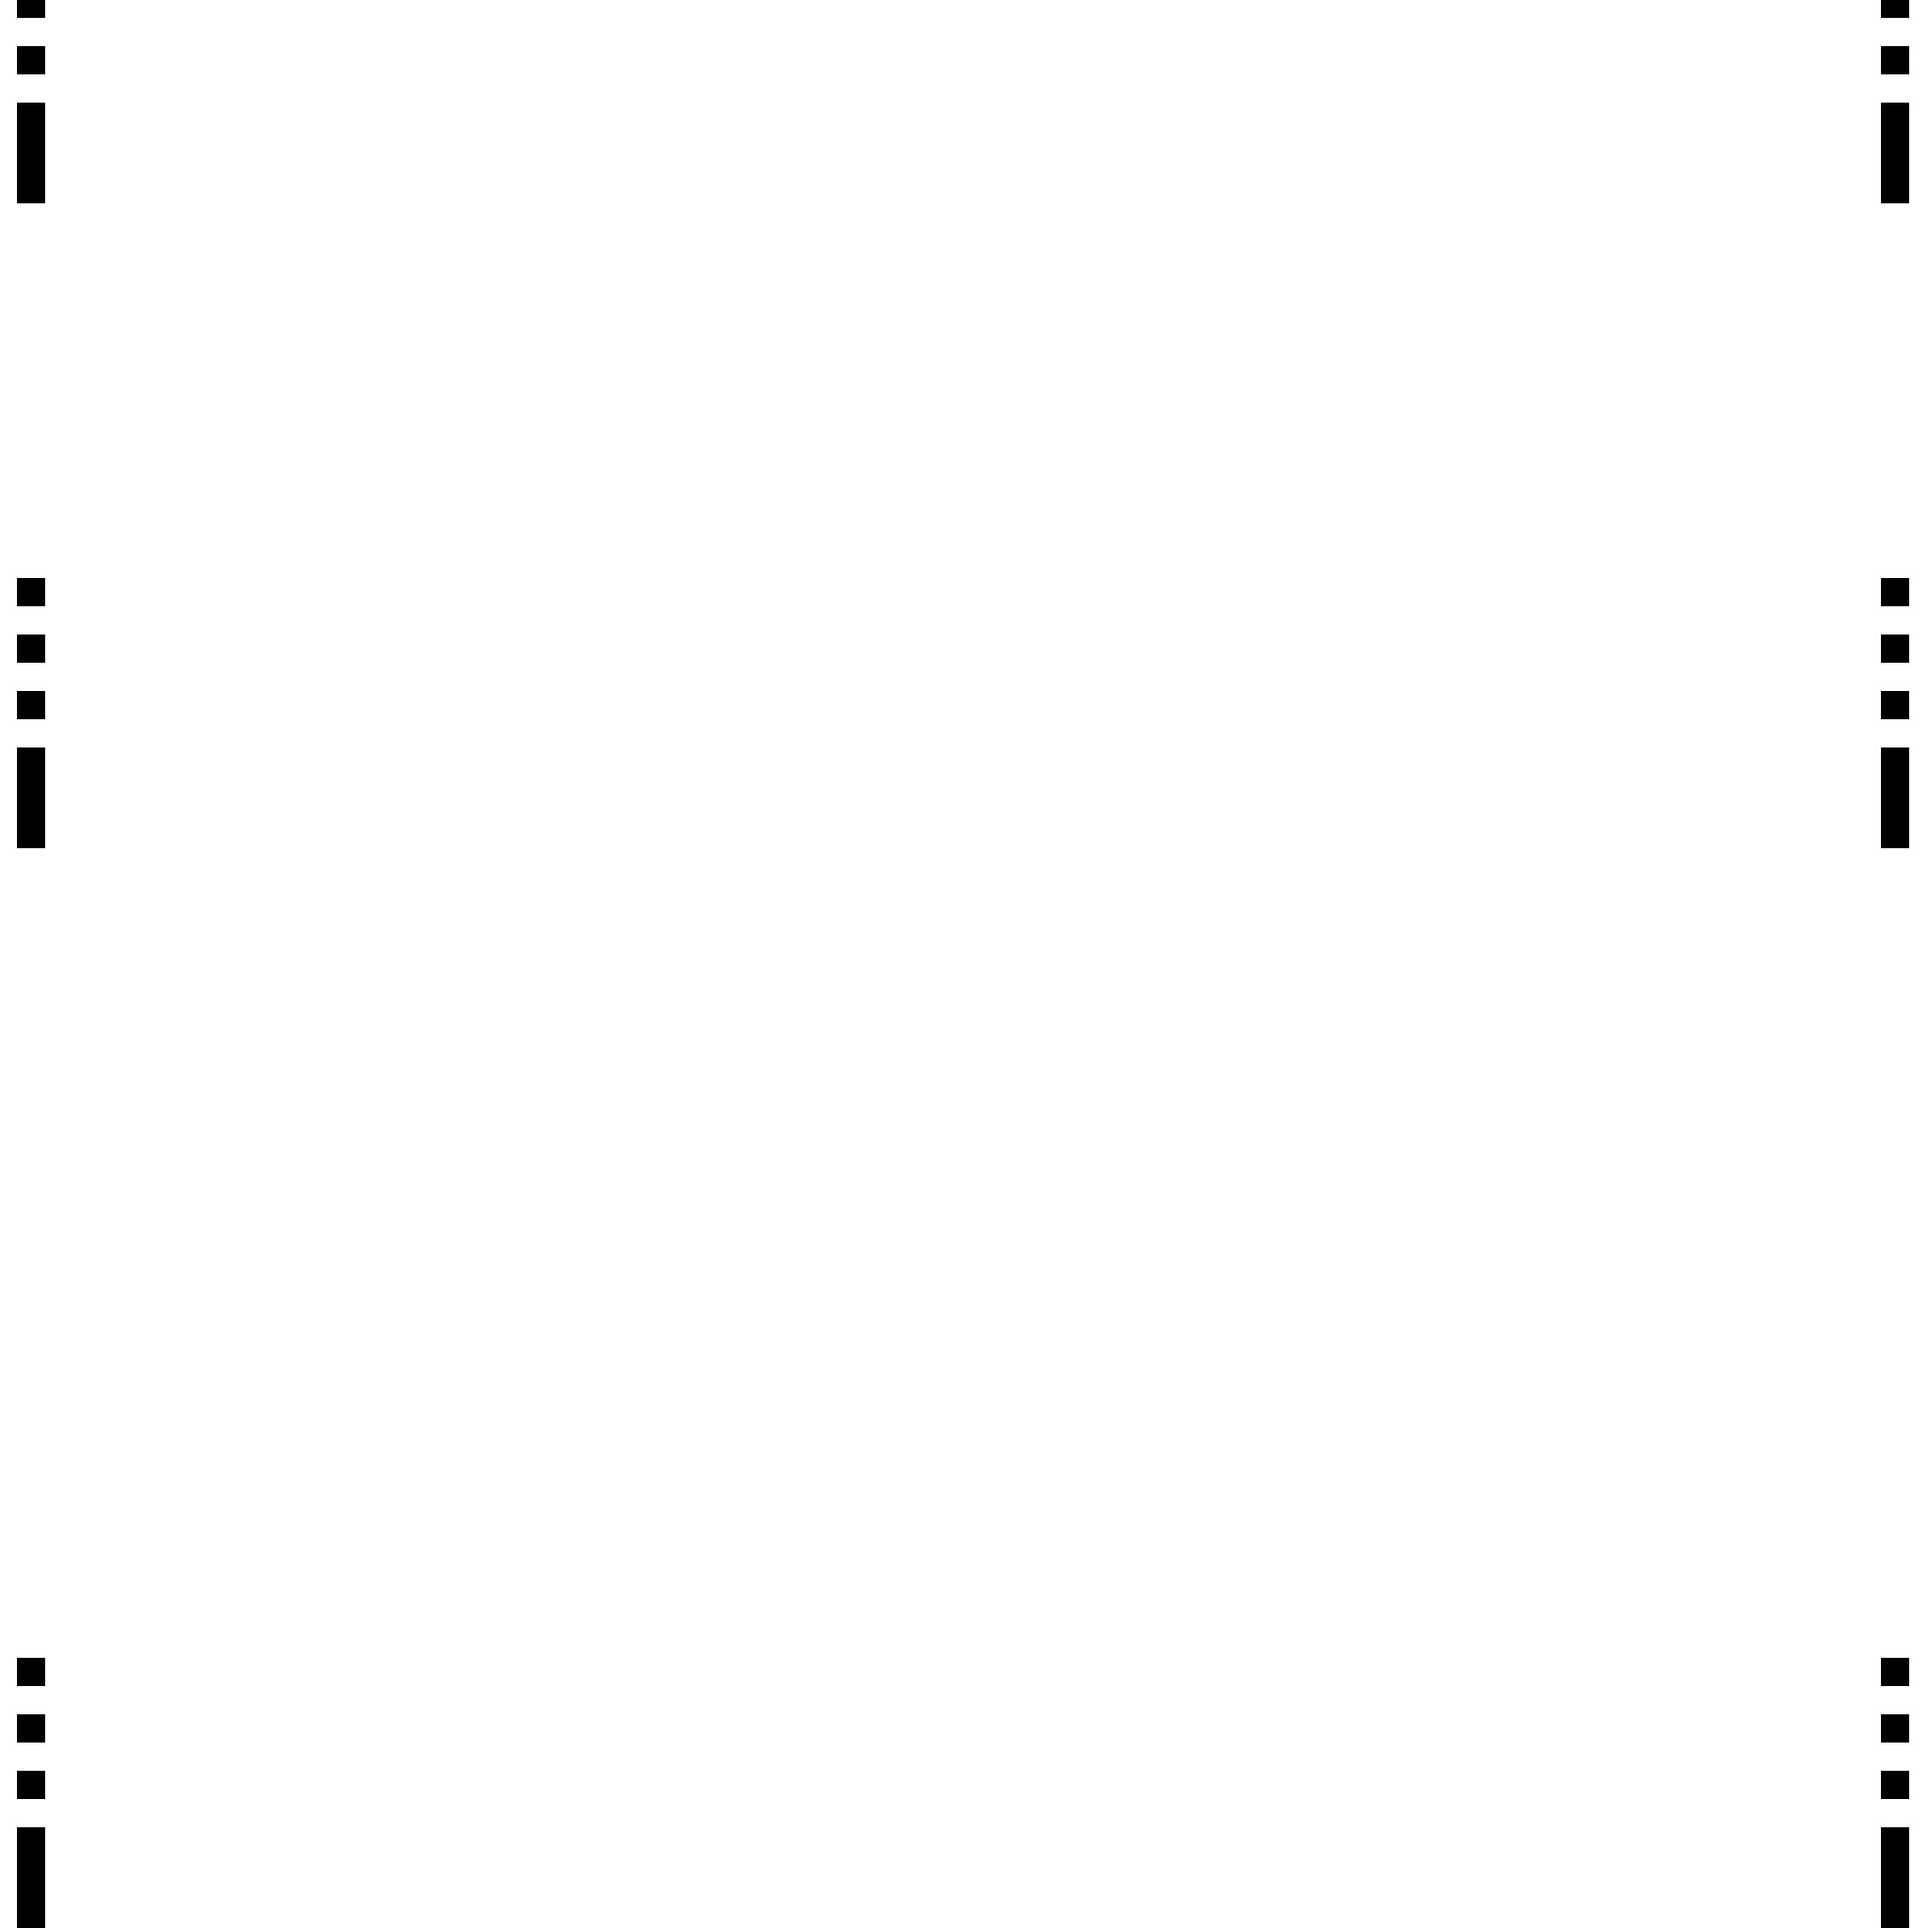
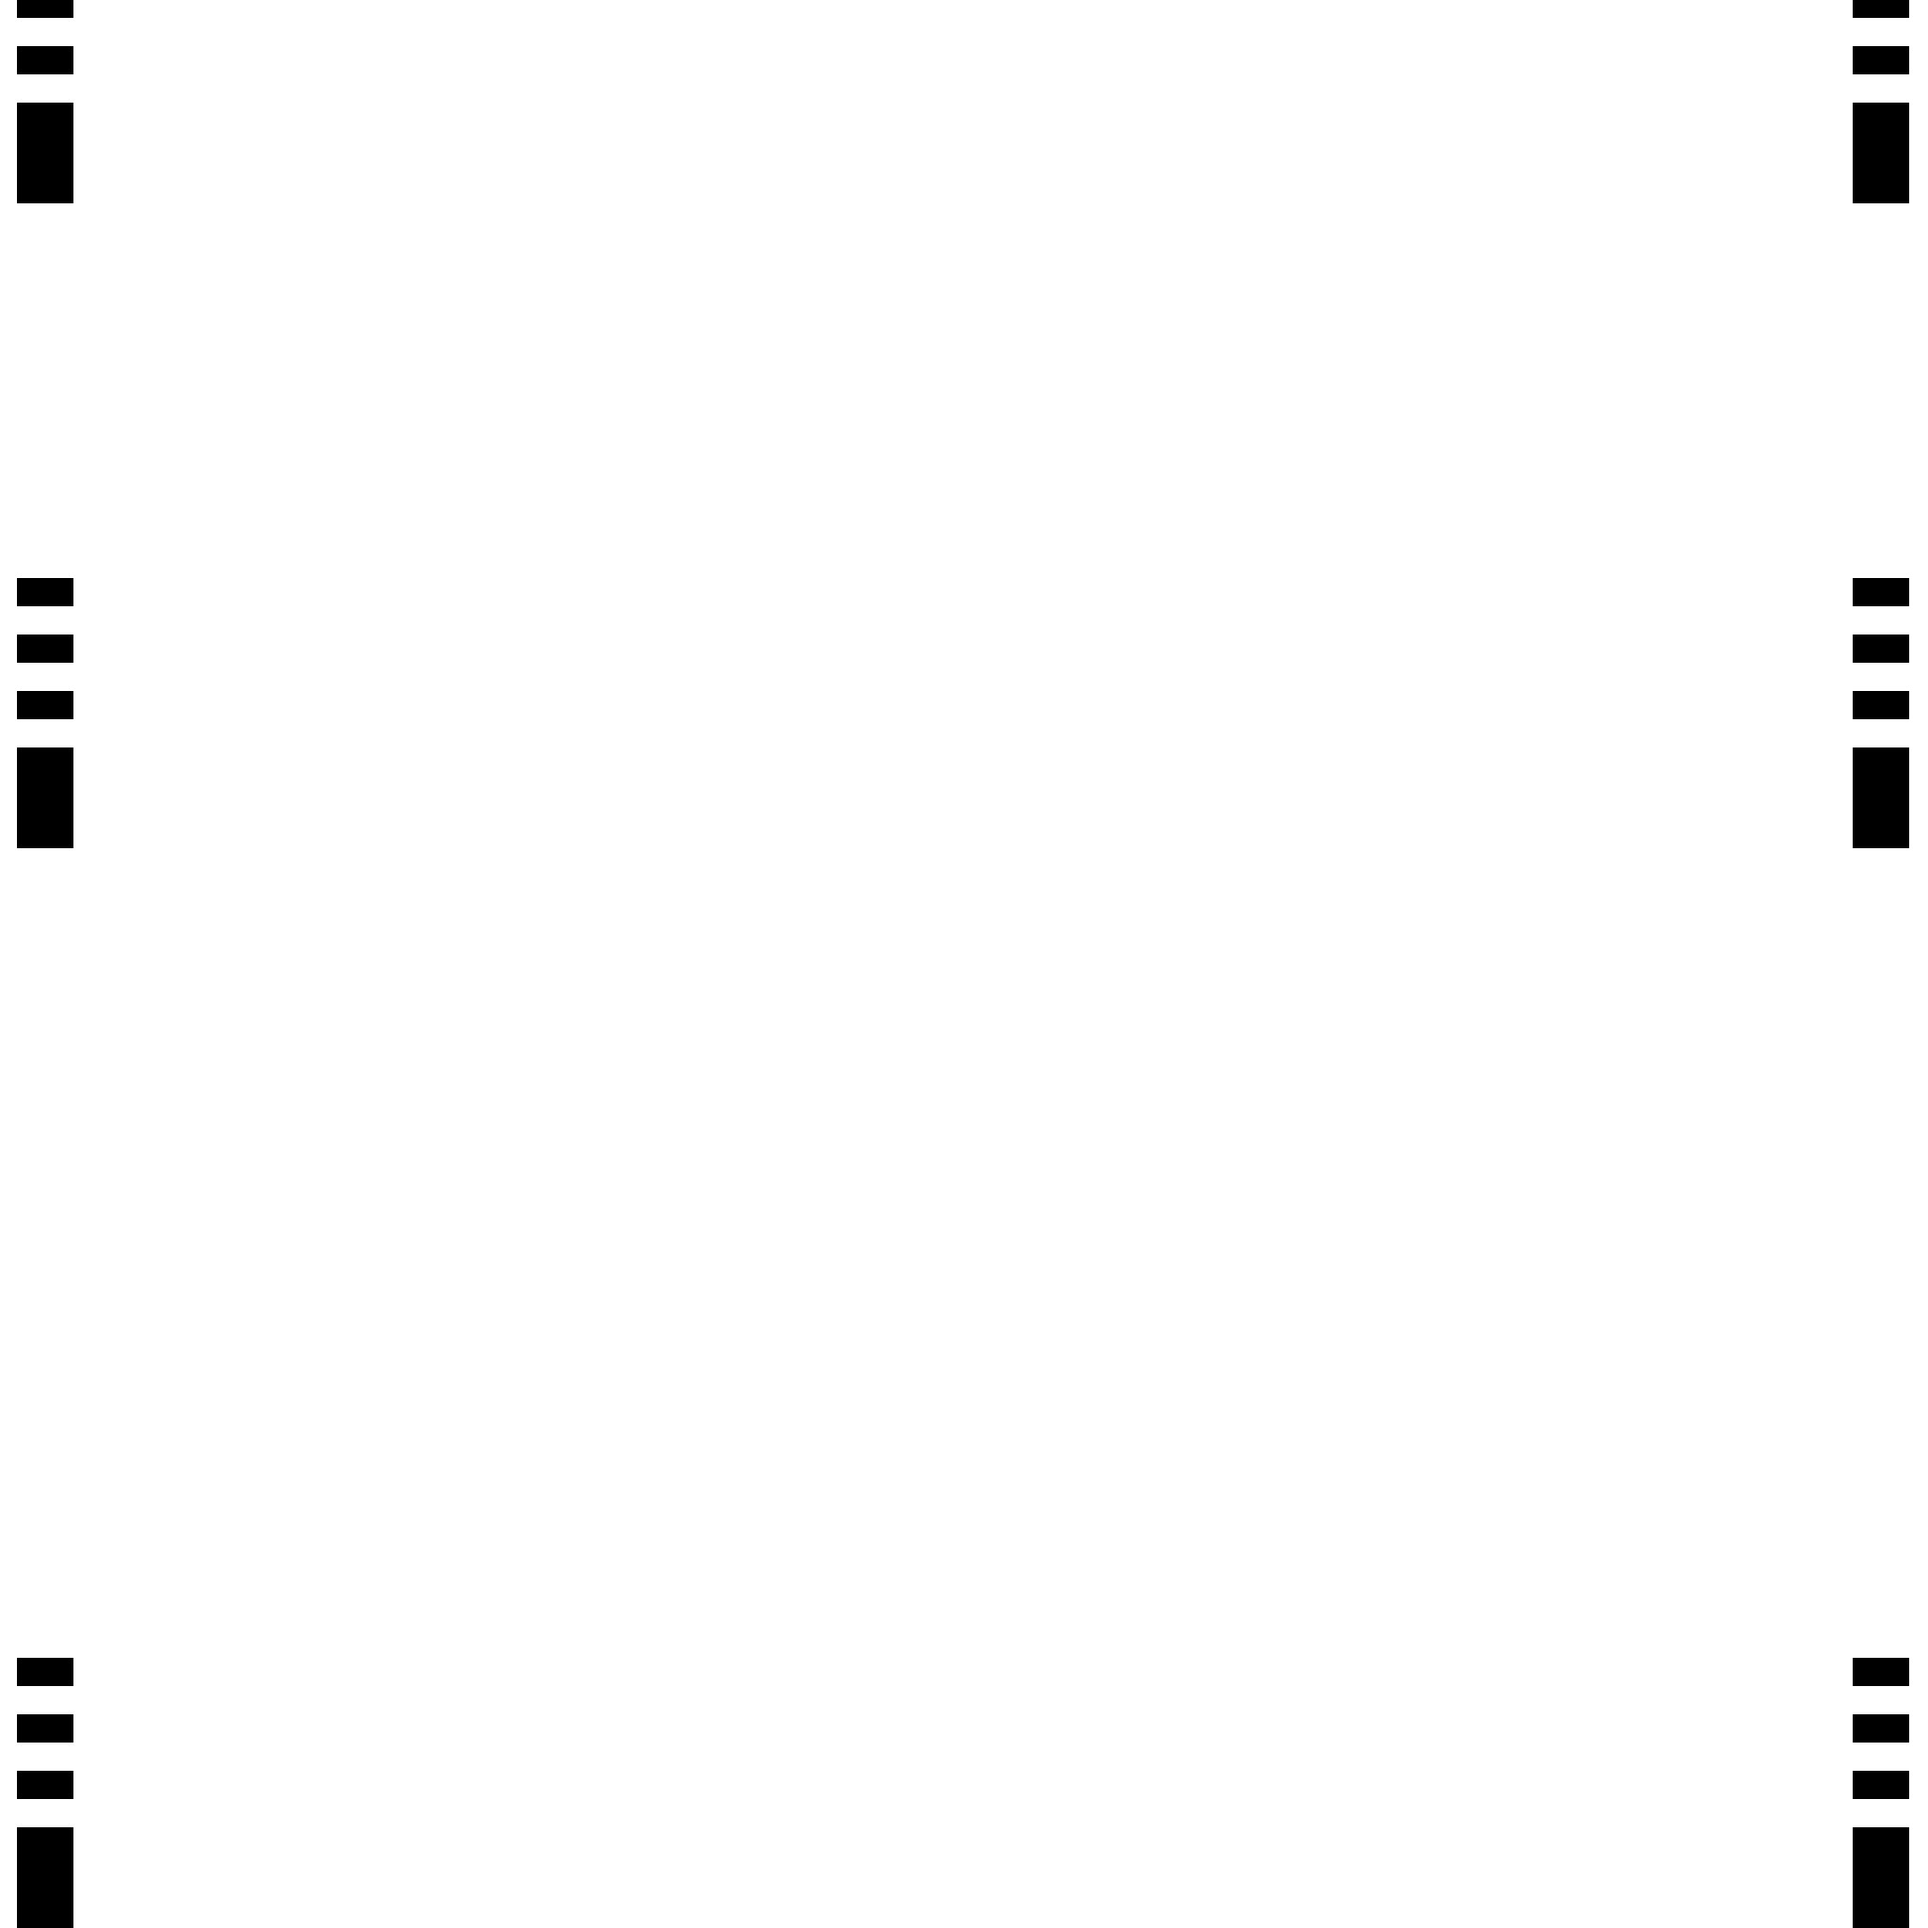
UPDATE: - widen black boxes on the sides - update overlay.jpg - add argparser to programm to pass args and show help - remove test rendering and replace with loop over passed images - reposition text and increase size

diff --git a/tools/__init__.py b/tools/__init__.py
@@ -21,27 +21,26 @@ def get_exif_from_file(file):
         'Contemporary': 'C'
     }
 
-    with open(file, 'rb') as img_file:
-        image = Image(img_file)
-        pilimage = PILImage.open(img_file)
+    image = Image(file)
+    pilimage = PILImage.open(file)
 
-        shutterspeed = image.get('exposure_time')
+    shutterspeed = image.get('exposure_time')
 
-        if shutterspeed < 1:
-            shutterspeed = f'1/{shutterspeed*10000:.0f}'
-        else:
-            shutterspeed = f'{shutterspeed:.0f}'
+    if shutterspeed < 1:
+        shutterspeed = f'1/{shutterspeed*10000:.0f}'
+    else:
+        shutterspeed = f'{shutterspeed:.0f}'
 
-        return {
-            'shutter_speed': shutterspeed,
-            'aperture': image.get('f_number'),
-            'focal_length': image.get('focal_length_in_35mm_film'),
-            'lens': replace_all(image.get('lens_model'), replacements),
-            'model': image.get('model'),
-            'iso': image.get('photographic_sensitivity'),
-            'width': pilimage.width,
-            'height': pilimage.height
-        }
+    return {
+        'shutter_speed': shutterspeed,
+        'aperture': image.get('f_number'),
+        'focal_length': image.get('focal_length_in_35mm_film'),
+        'lens': replace_all(image.get('lens_model'), replacements),
+        'model': image.get('model'),
+        'iso': image.get('photographic_sensitivity'),
+        'width': pilimage.width,
+        'height': pilimage.height
+    }
 
 
 def reborder(file, meta):
@@ -53,30 +52,33 @@ def reborder(file, meta):
     newimagedraw = ImageDraw.Draw(newimagebase)
 
     # right side information
-    newimagedraw.text((325, 5), f'{meta["lens"]}', (0, 0, 0), font=font)
-    newimagedraw.text((1500, 5), f'{meta["model"]}', (0, 0, 0), font=font)
+    newimagedraw.text((325, 20), f'{meta["lens"]}', (0, 0, 0), font=font)
+    newimagedraw.text((1500, 20), f'{meta["model"]}', (0, 0, 0), font=font)
 
     # left side information
-    newimagedraw.text((325, 1985), f'{meta["shutter_speed"]} sec', (0, 0, 0), font=font)
-    newimagedraw.text((650, 1985), f'f/{meta["aperture"]:.1f}', (0, 0, 0), font=font)
-    newimagedraw.text((825, 1985), f'ISO {meta["iso"]}', (0, 0, 0), font=font)
-    newimagedraw.text((1500, 1985), f'{meta["focal_length"]} mm', (0, 0, 0), font=font)
+    newimagedraw.text((325, 1965), f'{meta["shutter_speed"]} sec', (0, 0, 0), font=font)
+    newimagedraw.text((650, 1965), f'f/{meta["aperture"]:.1f}', (0, 0, 0), font=font)
+    newimagedraw.text((825, 1965), f'ISO {meta["iso"]}', (0, 0, 0), font=font)
+    newimagedraw.text((1500, 1965), f'{meta["focal_length"]} mm', (0, 0, 0), font=font)
 
-    newimagebase = newimagebase.rotate(90, expand=True)
+    # Lines background
+    linesbackground = PILImage.open('tools/overlay.jpg')
+
+    if meta['width'] >= meta['height']:
+        ratio = meta['width'] / 1880
+        linesbackground = linesbackground.rotate(270, expand=True)
+    else:
+        ratio = meta['height'] / 1920
+        newimagebase = newimagebase.rotate(90, expand=True)
 
     newimage = PILImage.new(mode='RGB', size=bgsize, color='white')
     image = PILImage.open(file)
-
-    if meta['width'] >= meta['height']:
-        ratio = meta['width'] / 1920
-    else:
-        ratio = meta['height'] / 1920
 
     image = image.resize(size=(int(meta['width'] / ratio), int(meta['height'] / ratio)))
 
     print(bgsize, image.size, calc_offset(bgsize, image.size))
 
-    newimage.paste(PILImage.open('tools/overlay.jpg'))
+    newimage.paste(linesbackground)
     newimage.paste(newimagebase, (0, 0), newimagebase)
     newimage.paste(image, calc_offset(bgsize, image.size))
 

diff --git a/main.py b/main.py
@@ -1,13 +1,34 @@
+import argparse
+import pathlib
+
 import tools
 from exif import Image
+
+
+def loadargs():
+    # define arguments with argparse for programm
+    parser = argparse.ArgumentParser(
+        prog='ImageReborder',
+        description='Programm to reborder images and put the meta data of the shot into the new image',
+        epilog='Have fun and be creative :)'
+    )
+
+    parser.add_argument('-v', '--verbose', action='store_true',
+                        help='Enable debug messages on console')
+    parser.add_argument('-o', '--out', action='store', type=pathlib.Path, default='out/',
+                        help='Path to out directory for new images')
+    parser.add_argument('-f', '--files', required=True, nargs='+', type=argparse.FileType('rb'),
+                        help='List of pictures to process')
+
+    return parser.parse_args()
 
 
 def printmeta(file):
     for k, v in tools.get_exif_from_file(file).items():
         if type(v) is float or type(v) is int:
-            print(f'{k:15}: {v:.2f}')
+            print(f'{k:15}: {v}')
         else:
-            print(f'{k:15}: {v:}')
+            print(f'{k:15}: {v}')
 
 
 def printallmeta(file):
@@ -20,20 +41,9 @@ def printallmeta(file):
 
 # Press the green button in the gutter to run the script.
 if __name__ == '__main__':
-    printmeta('input/DSC07985.jpg')
-    print('####')
-    printmeta('input/DSC08219.jpg')
-    print('####')
-    printmeta('input/DSC08002.jpg')
-    print('####')
-    printmeta('input/DSC08174.jpg')
-    print('####')
-    printmeta('input/DSC08187.jpg')
-    # printallmeta('input/DSC08187.jpg')
-    newimage = tools.reborder('input/DSC07985.jpg', tools.get_exif_from_file('input/DSC07985.jpg'))
+    # Load arguments
+    args = loadargs()
 
-    newimage.save('out/test1.jpg')
-
-    newimage = tools.reborder('input/DSC08219.jpg', tools.get_exif_from_file('input/DSC08219.jpg'))
-
-    newimage.save('out/test2.jpg')
+    # Reborder all images
+    for image in args.files:
+        tools.reborder(image, tools.get_exif_from_file(image)).save(f'{args.out}/{image.name.split("/").pop()}')
